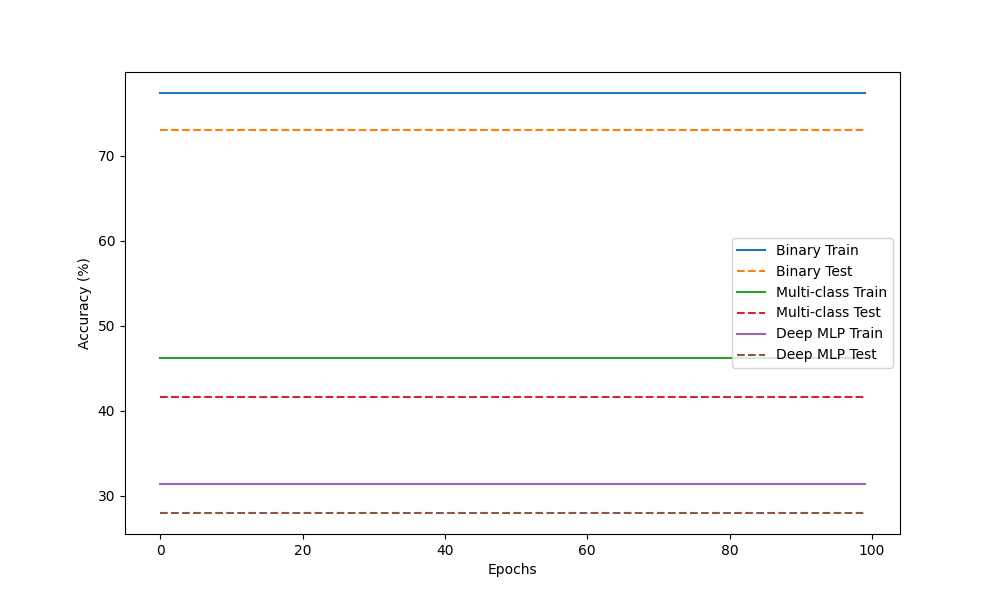
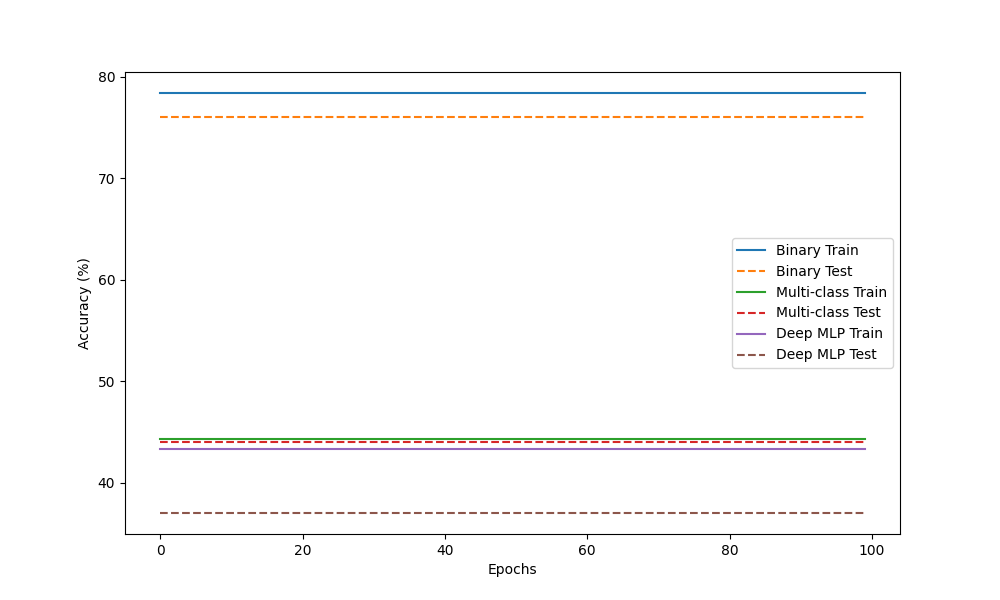
feat: automated fix for wrong value display

diff --git a/docs/studies/3_mlp/main.py b/docs/studies/3_mlp/main.py
@@ -3,11 +3,13 @@ import matplotlib.pyplot as plt
 from pathlib import Path
 import sys
 import os
-
+from experiment_runner import (
+    run_binary_classification,
+    run_multiclass_classification,
+    run_deep_mlp
+)
 # Add the current directory to Python path
 sys.path.append(os.path.dirname(__file__))
-
-from mlp import MLP, generate_synthetic_data
 
 def manual_mlp_calculation():
     x = np.array([0.5, -0.2])
@@ -63,20 +65,13 @@ def run_experiments():
     assets_dir.mkdir(exist_ok=True)
     
     # Experiment 2: Binary Classification
-    X_bin, y_bin = generate_synthetic_data(n_samples=1000, n_classes=2, n_features=2, 
-                                         clusters_per_class=[1, 2], random_state=42)
-    mlp_binary = MLP(input_size=2, hidden_sizes=[4], output_size=1, activation='relu')
-    binary_results = mlp_binary.train(X_bin, y_bin, epochs=100, learning_rate=0.01)
+    binary_results = run_binary_classification()
     
     # Experiment 3: Multi-Class Classification
-    X_multi, y_multi = generate_synthetic_data(n_samples=1500, n_classes=3, n_features=4,
-                                              clusters_per_class=[2, 3, 4], random_state=42)
-    mlp_multi = MLP(input_size=4, hidden_sizes=[4], output_size=3, activation='relu')
-    multi_results = mlp_multi.train(X_multi, y_multi, epochs=100, learning_rate=0.01)
+    multi_results = run_multiclass_classification()
     
     # Experiment 4: Deep MLP
-    mlp_deep = MLP(input_size=4, hidden_sizes=[8, 4], output_size=3, activation='relu')
-    deep_results = mlp_deep.train(X_multi, y_multi, epochs=100, learning_rate=0.01)
+    deep_results = run_deep_mlp()
     
     # Generate plots
     plt.figure(figsize=(10, 6))

diff --git a/docs/studies/3_mlp/experiment_runner.py b/docs/studies/3_mlp/experiment_runner.py
@@ -35,7 +35,7 @@ def run_multiclass_classification():
     X, y = generate_synthetic_data(n_samples=1500, n_classes=3, n_features=4,
                                  clusters_per_class=[2, 3, 4], random_state=42)
     
-    mlp = MLP(input_size=4, hidden_sizes=[4], output_size=3, activation='tanh')
+    mlp = MLP(input_size=4, hidden_sizes=[4], output_size=3, activation='relu')
     results = mlp.train(X, y, epochs=100, learning_rate=0.01)
     
     # Generate PCA visualization
